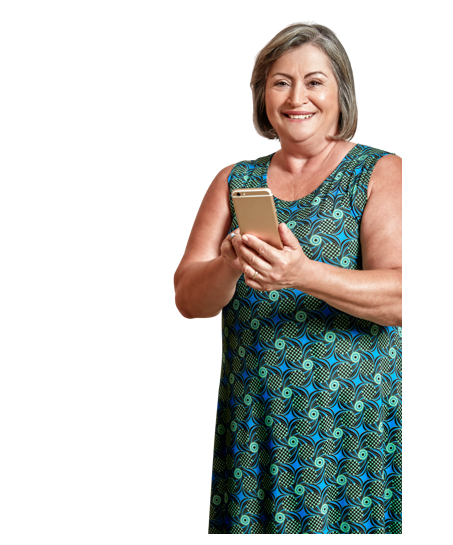
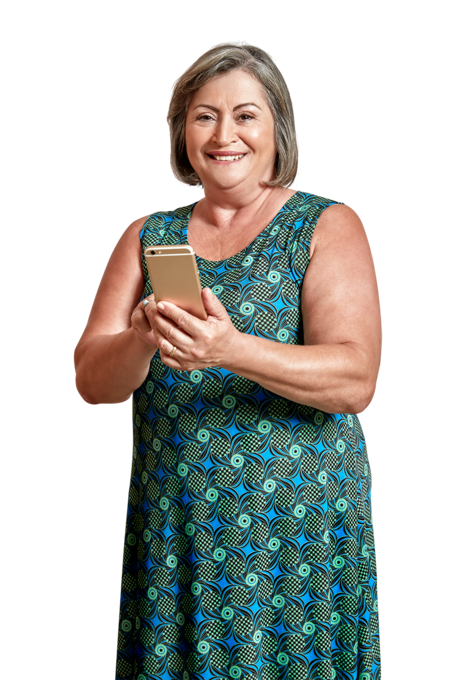
Personaliza página para que fique responsiva

diff --git a/css/app.css b/css/app.css
@@ -13,13 +13,44 @@ main {
 	margin: 0 auto;
 }
 
+@media (min-width: 768px) {
+	.main-div {
+		max-width: 600px;
+	}
+}
+
+@media (min-width: 1024px) {
+	.main-div {
+		max-width: 800px;
+	}
+}
+
 main section {
 	padding: 5px 20px;
 	width: inherit;
 	height: inherit;
-	background-image: url('../img/mulher_com_celular.png');
+	background-image: url('../img/mulher_com_celular_sm.png');
 	background-repeat: no-repeat;
-	background-position: -35px 25px;
+	background-position: -40px 25px;
+}
+
+@media (min-width: 375px) {
+	main section {
+		background-position: 23px 25px;
+	}
+}
+
+@media (min-width: 768px) {
+	main section {
+		background-image: url('../img/mulher_com_celular.png');
+		background-position: 217px 0;
+	}
+}
+
+@media (min-width: 1024px) {
+	main section {
+		background-position: 410px 0;
+	}
 }
 
 .logo-conveniado {
@@ -41,7 +72,7 @@ main section {
 
 .info div {
 	display: flex;
-	justify-content: center;
+	justify-content: left;
 }
 
 .info h2 {
@@ -57,8 +88,20 @@ main section {
 	border-radius: 6px;
 	margin: 8px 0;
 	padding: 0 13px;
-	max-width: 381px;
+	max-width: 255px;
 	font-size: .75rem;
+}
+
+@media (min-width: 768px) {
+	.values-table {
+		max-width: 270px;
+	}
+}
+
+@media (min-width: 1024px) {
+	.values-table {
+		max-width: 471px;
+	}
 }
 
 .values-table li {
@@ -74,7 +117,7 @@ main section {
 }
 
 .values-table strong {
-	font-size: 1.125rem;
+	font-size: 1rem;
 }
 
 .cta {
@@ -121,8 +164,30 @@ main section {
 	font-size: 1.2rem;
 }
 
+.prices-comparator {
+	background-color: white;
+	max-width: 800px;
+	margin: 0 auto;
+}
+
+@media (min-width: 768px) {
+	.prices-comparator {
+		max-width: 600px;
+		margin: 0 auto;
+	}
+}
+
+@media (min-width: 1024px) {
+	.prices-comparator {
+		max-width: 800px;
+		margin: 0 auto;
+	}
+}
+
 .comparator {
 	padding: 0 25px;
+	max-width: 325px;
+	display: inline-block;
 }
 
 .comparator h2 {

diff --git a/index.html b/index.html
@@ -55,7 +55,7 @@
     </div>
   </main>
 
-  <section style="background-color: white;">
+  <section class="prices-comparator">
     <div class="tradicao">
       <h3 style="font-family: Montserrat, sans-serif;">40 anos de tradição em Empréstimo Consignado</h3>
     </div>
